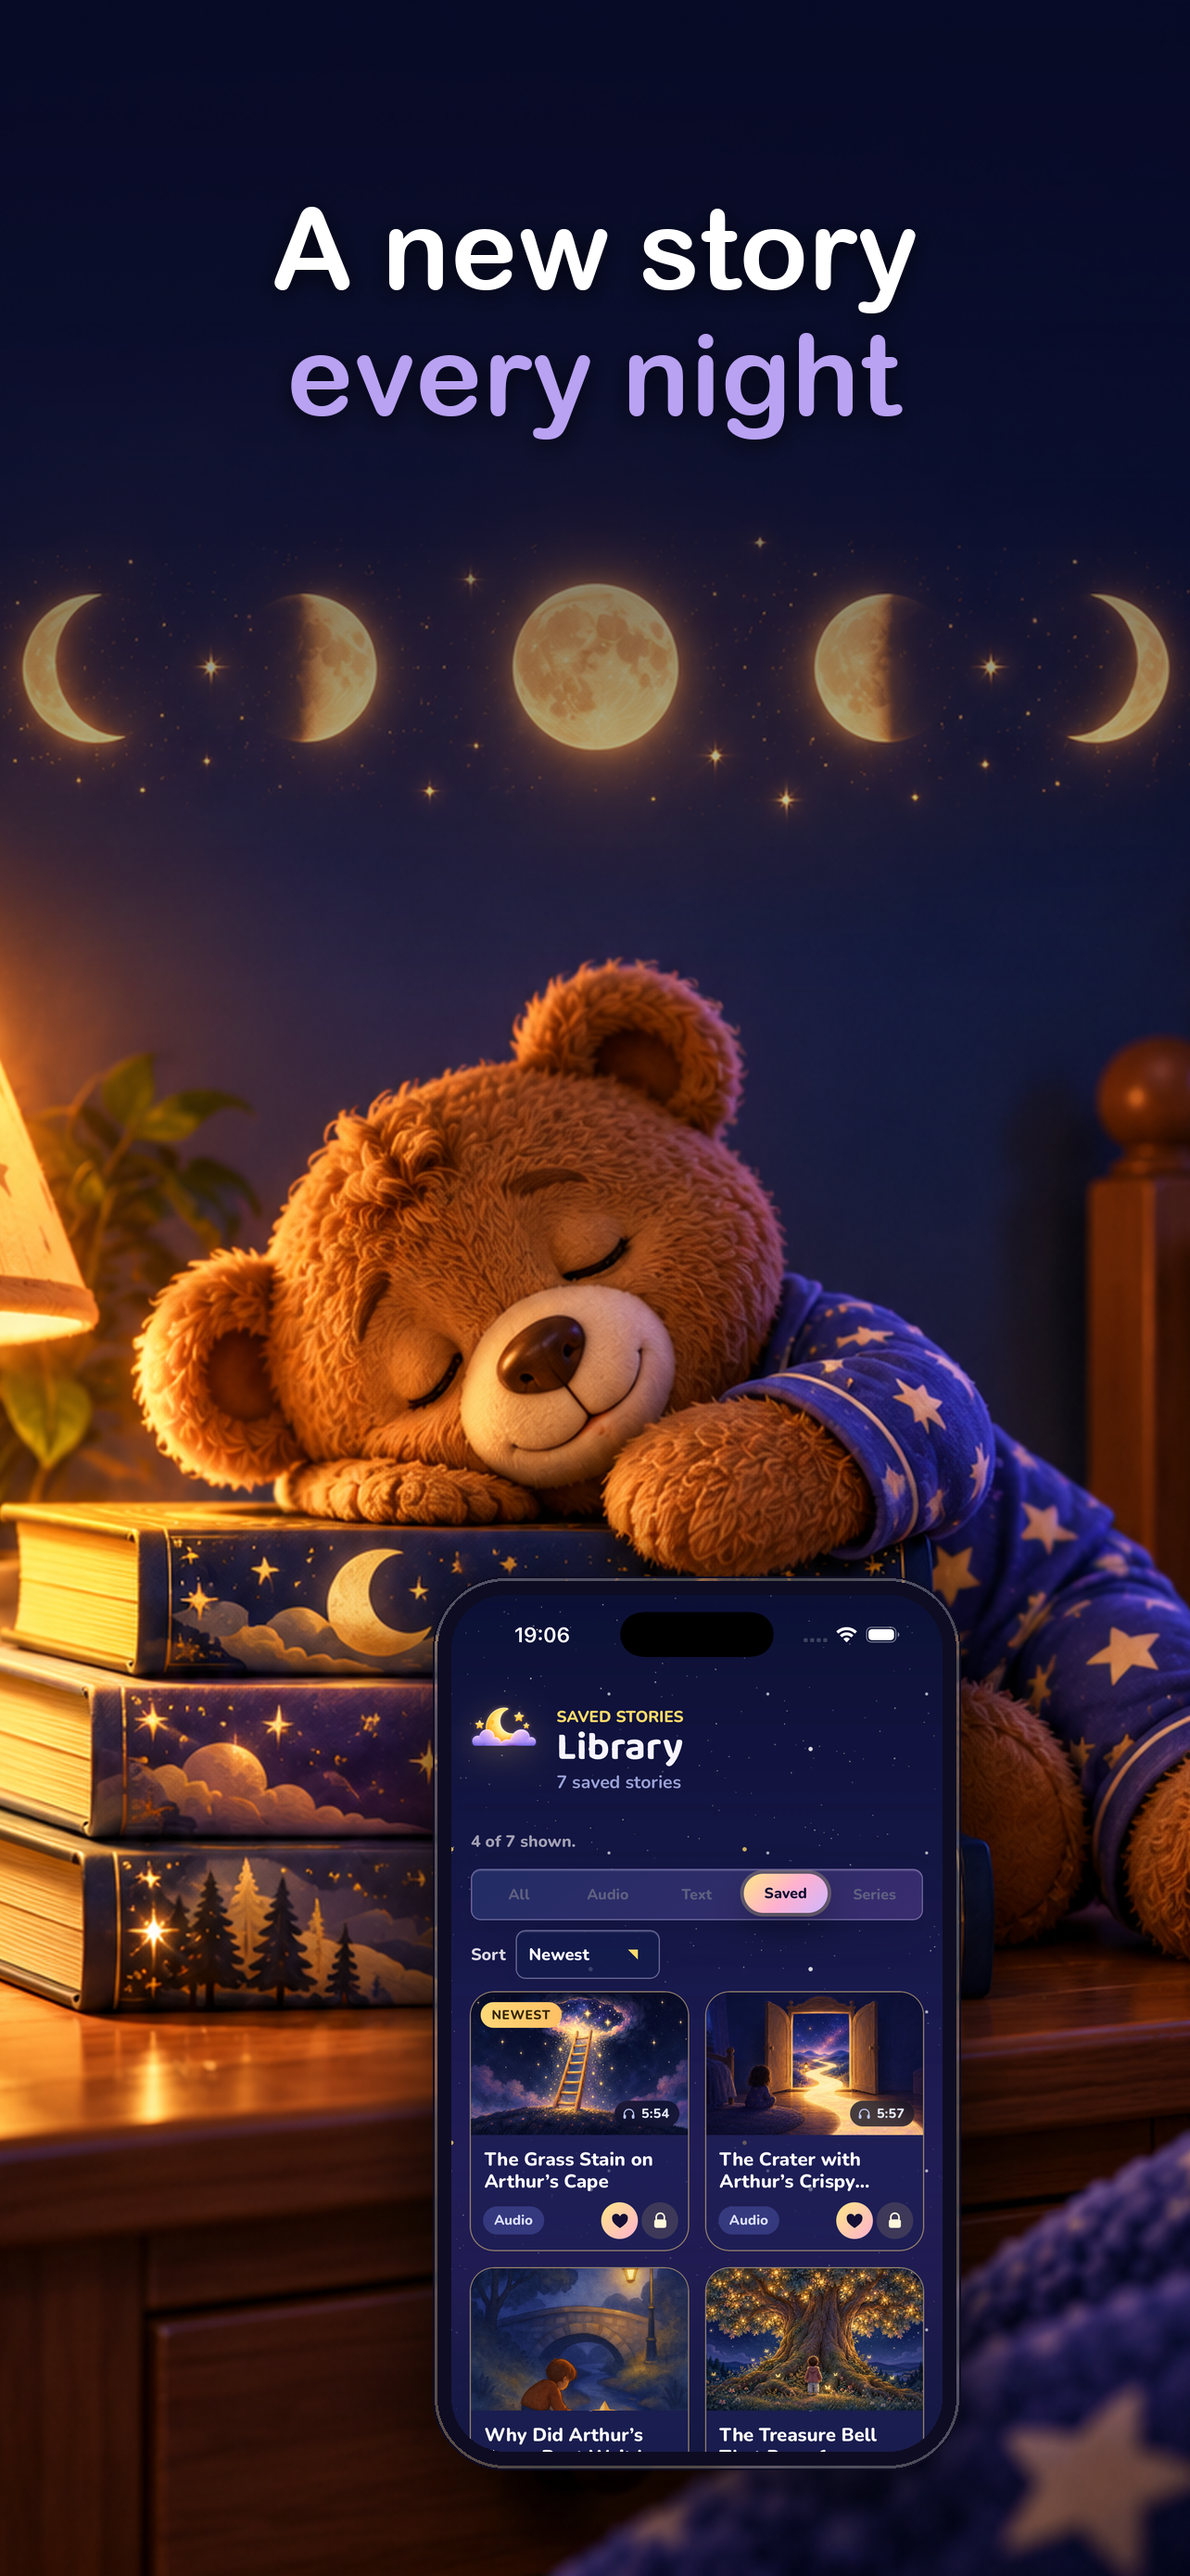
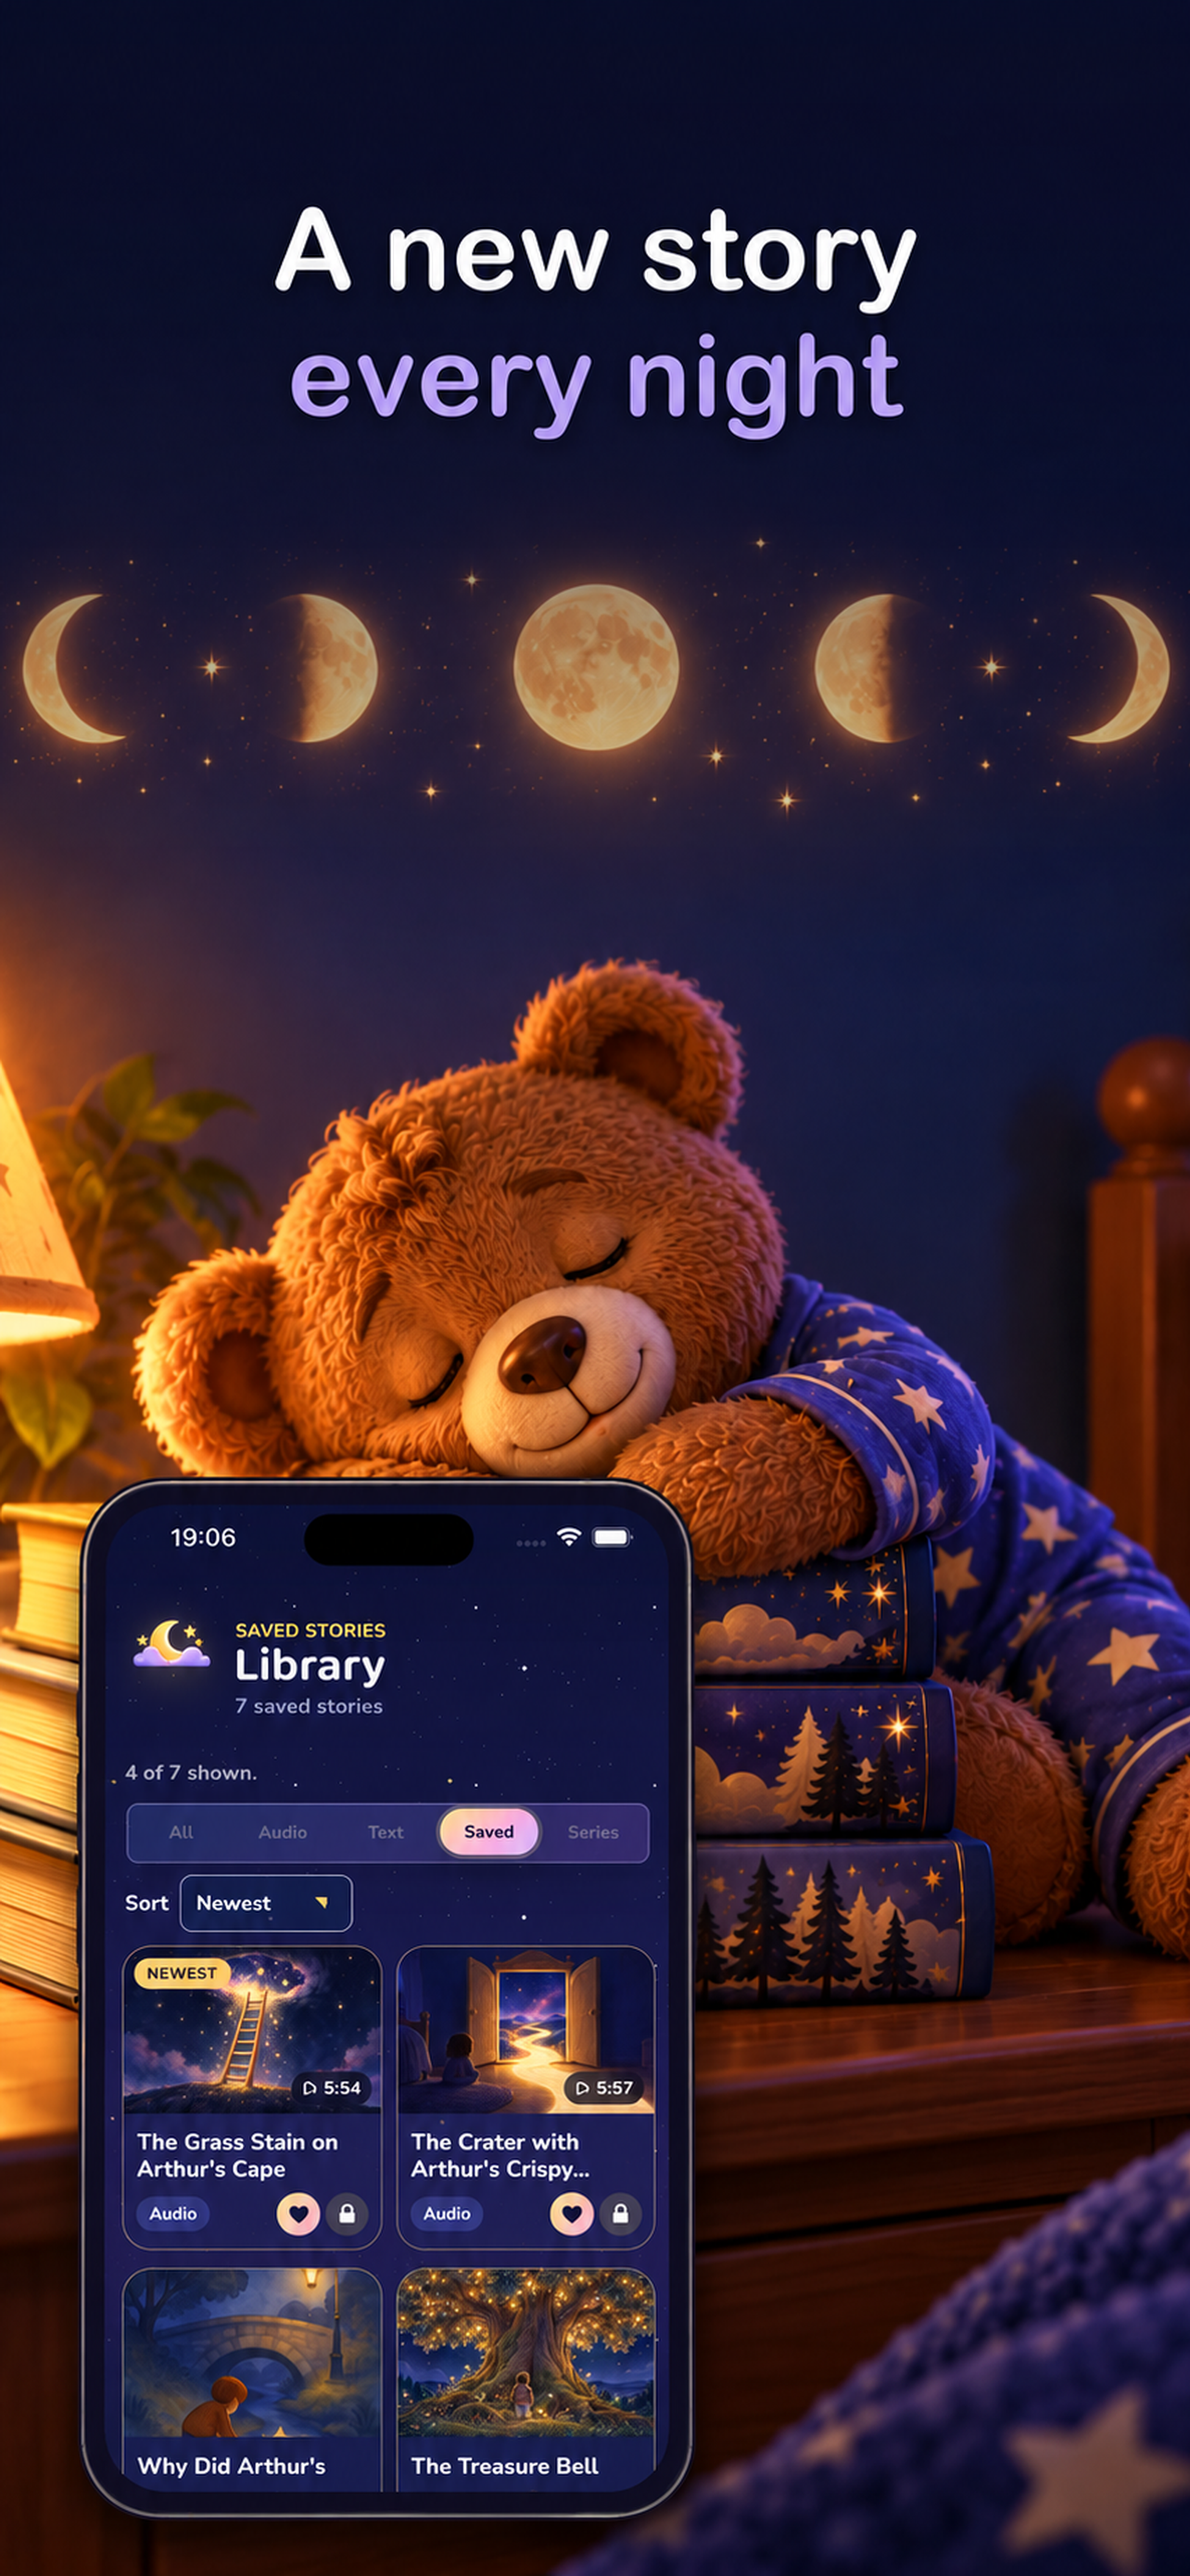
Take Shaun's finished panels for 1, 2 and 5
Three panels came back composited already - headline, phone, star badge and
all - and better than the ones the script drew. They go in
store-assets/source/finished, which the build now prefers over compositing,
so re-running it resizes them rather than quietly painting over them.

They arrive at 853x1844, so they are scaled 1.5x to the 1284x2778 the store
asks for. The artwork takes it well; the baked-in headline is a little
softer than drawn type would be.

diff --git a/scripts/build-ios-illustrated-screenshots.py b/scripts/build-ios-illustrated-screenshots.py
@@ -20,6 +20,10 @@ import store_screenshot_design as d
 
 ROOT = Path(__file__).resolve().parents[1]
 ART_DIR = ROOT / "store-assets" / "source" / "illustrated"
+# A panel finished elsewhere, headline and all. Anything in here wins over
+# compositing, so a hand-made screenshot is not quietly rebuilt over the next
+# time this runs - it is only resized to the size the store asks for.
+FINISHED_DIR = ROOT / "store-assets" / "source" / "finished"
 UI_DIR = ROOT / "store-assets" / "source" / "ui"
 OUTPUT_DIR = ROOT / "store-assets" / "ios" / "screenshots-illustrated"
 
@@ -66,6 +70,14 @@ def scrim(canvas, height, strength):
 
 
 def build(output, art_name, accent_name, lines, phone, extras):
+    finished = FINISHED_DIR / output
+    if finished.exists():
+        OUTPUT_DIR.mkdir(parents=True, exist_ok=True)
+        art = Image.open(finished).convert("RGB")
+        d.cover(art, (WIDTH, HEIGHT)).save(OUTPUT_DIR / output, "PNG", optimize=True)
+        print(f"  {output}  (finished panel, {art.width}x{art.height} -> {WIDTH}x{HEIGHT})")
+        return
+
     accent = d.ACCENTS[accent_name]
     art = Image.open(ART_DIR / art_name).convert("RGBA")
     canvas = d.cover(art, (WIDTH, HEIGHT)).convert("RGBA")
@@ -90,6 +102,7 @@ def build(output, art_name, accent_name, lines, phone, extras):
 
     OUTPUT_DIR.mkdir(parents=True, exist_ok=True)
     canvas.convert("RGB").save(OUTPUT_DIR / output, "PNG", optimize=True)
+    print(f"  {output}  (composited)")
 
 
 def main():
@@ -100,7 +113,6 @@ def main():
             stale.unlink()
     for screen in SCREENS:
         build(*screen)
-        print(f"  {screen[0]}")
 
 
 if __name__ == "__main__":
